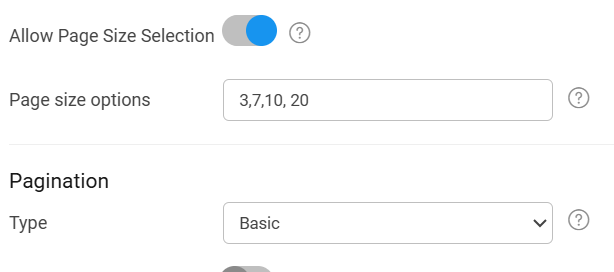
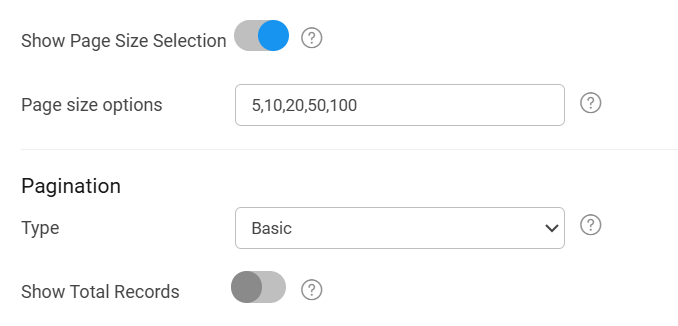
release notes corrections

diff --git a/learn/wavemaker-release-notes/v11-11-5.md b/learn/wavemaker-release-notes/v11-11-5.md
@@ -92,38 +92,39 @@ Bottom sheets are ideal for use cases like filters, media controls, map detail v
 ### Web
 
 <details>
+<summary>Accessibility Enhancement: “Skip to Main Content” support</summary>
+
+Added support for the **Skip to Main Content** accessibility feature.  
+Users navigating via keyboard or assistive technologies can now bypass repetitive layout elements and jump directly to the main page content.
+
+It can be configured in Settings -> General -> `Enable Skip to Main Content`.
+
+![Skip To Main Content Config](/learn/assets/release-notes/skipToMain-11-11-5.png)
+</details>
+
+<details>
 <summary>Enhanced Data Table footer with additional page size options</summary>
 
 The Data Table widget footer has been enhanced to provide users with more control over pagination:
 
-- **Items per Page**: Displays the selected page size (e.g., "3 items per page").
-- **Current Page Range**: Shows the visible range and total number of records (e.g., "1–3 of 10").
+- **Items per Page**: Displays the selected page size (e.g., "5 items per page").
+- **Current Page Range**: Shows the range of visible items along with the total count (e.g., “1–5 of 10”).
 
 ![Enhanced Data Table Footer](/learn/assets/release-notes/datatable-pagination-enhancement-11-11-5.png)
 
-To support this, two new options have been added in the **Advanced Settings** of the Data Table widget in Studio:
+To support this, two new options have been added in the **Advanced Settings** of the Data Table widget:
 
-- **Allow Page Size Selection**: Enables or disables page size control.
-- **Page Size Options**: Accepts comma-separated custom values (e.g., `3,7,10,20`) that populate the pagination dropdown, allowing users to choose how many items to display per page.
+- **Show Page Size Selection**: Toggle to enable or disable the ability to select page size.
+- **Page Size Options**: Allows custom comma-separated values (e.g., 3,7,10,20) to define the dropdown options for items per page.
 
 ![Studio Config - Page Size Options](/learn/assets/release-notes/datatable-pagination-enhancement-studio-11-11-5.png)
 
-</details>
+By default, the page size options are set to: 5,10,20,50,100.
 
-<details>
-<summary>Added hover hints and accessibility labels for row selection in Data Table</summary>
-
-A new **hint** feature has been added to improve usability when selecting rows in the Data Table widget. When **Multiselect** or **Radio Column** row selection is enabled, users will now see a tooltip-style hint when hovering over the checkbox or radio button for each row.
-
-To support this, four new properties have been introduced under **Advanced Settings** of the Data Table:
-
-- If **Multiselect** is enabled:
-  - **Multiselect Hint**: Text shown on hover.
-  - **Multiselect Aria-label**: Accessibility label for screen readers.
-
-- If **Radio Column** is enabled:
-  - **Radio Column Hint**: Text shown on hover.
-  - **Radio Column Aria-label**: Accessibility label for screen readers.
+This enhancement is supported in the following widgets:
+1. Data Table
+2. Cards
+3. List
 
 </details>
 
@@ -207,9 +208,11 @@ This feature is useful for scenarios where the form should be displayed in a non
 <details>
 <summary>Improved AM/PM selection in Time and DateTime widgets</summary>
 
-Enhanced the **Time** and **DateTime** widgets by introducing **separate AM and PM buttons** for time selection.
+Enhanced the **Time** and **DateTime** widgets with a new property: `Show AM/PM Buttons`.
 
-Previously, a single toggle button was used to switch between AM and PM, which led to usability confusion. Now, users will see **two distinct buttons** — one for **AM** and one for **PM**. Selecting one will automatically deselect the other, offering a clearer and more intuitive time selection experience.
+When enabled, this shows **two distinct buttons** for AM and PM, replacing the previous single-toggle button. Selecting one automatically deselects the other, improving clarity and usability.
+
+By default the property is **disabled**.
 </details>
 
 <details>
@@ -231,18 +234,28 @@ Two new properties have been added:
 </details>
 
 <details>
-<summary>Accessibility Enhancement: “Skip to Main Content” support</summary>
-
-Added support for the **Skip to Main Content** accessibility feature.  
-Users navigating via keyboard or assistive technologies can now bypass repetitive layout elements and jump directly to the main page content.
-</details>
-
-<details>
 <summary>Added support for sorting on custom columns in Data Table</summary>
 
 Enhanced the **Data Table** widget to support sorting on **custom fields**.
 
-A new **Short By** field has been added to the widget’s advanced settings. When configured, clicking on a custom column will sort the data based on the specified value.
+A new **Sort By** field has been added to the widget’s advanced settings. When configured, clicking on a custom column will sort the data based on the specified value.
+</details>
+
+<details>
+<summary>Added hover hints and accessibility labels for row selection in Data Table</summary>
+
+A new **hint** feature has been added to improve usability when selecting rows in the Data Table widget. When **Multiselect** or **Radio Column** row selection is enabled, users will now see a tooltip-style hint when hovering over the checkbox or radio button for each row.
+
+To support this, four new properties have been introduced under **Advanced Settings** of the Data Table:
+
+- If **Multiselect** is enabled:
+  - **Multiselect Hint**: Text shown on hover.
+  - **Multiselect Aria-label**: Accessibility label for screen readers.
+
+- If **Radio Column** is enabled:
+  - **Radio Column Hint**: Text shown on hover.
+  - **Radio Column Aria-label**: Accessibility label for screen readers.
+
 </details>
 
 ### Studio
